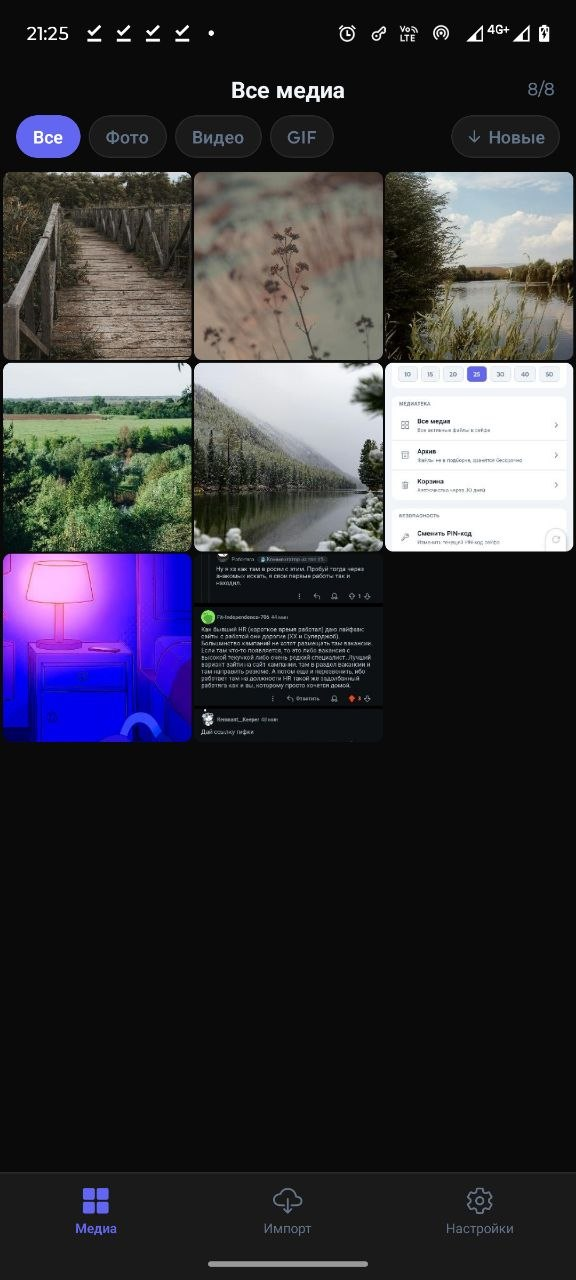
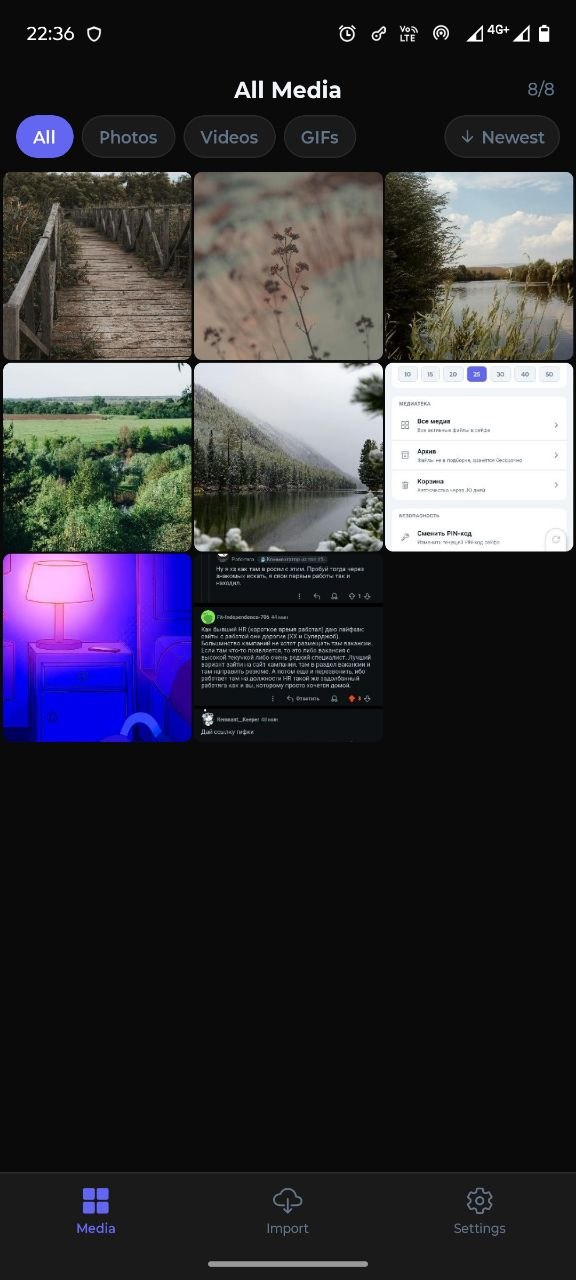
docs: работа с readme

diff --git a/README.md b/README.md
@@ -2,17 +2,17 @@
 
 A personal encrypted media vault for Android. Stores photos, videos and GIFs locally on-device — fully offline, protected by PIN, optionally by biometrics.
 
-> **Note:** This project was built quickly and for personal use. The code is functional but not production-grade, the architecture is straightforward. It does its job.
+> Built for personal use. The code is functional and the architecture is straightforward — it does its job well.
 
 <p align="center">
   <img src="screenshots/media.jpg" width="260" alt="All Media" />
-  &nbsp;
+  &nbsp;&nbsp;
   <img src="screenshots/import.jpg" width="260" alt="Import" />
-  &nbsp;
+  &nbsp;&nbsp;
   <img src="screenshots/settings.jpg" width="260" alt="Settings" />
 </p>
 <p align="center">
-  <sub>All Media &nbsp;&nbsp;&nbsp;&nbsp;&nbsp;&nbsp;&nbsp;&nbsp;&nbsp;&nbsp;&nbsp;&nbsp;&nbsp;&nbsp;&nbsp;&nbsp;&nbsp;&nbsp;&nbsp;&nbsp;&nbsp; Import &nbsp;&nbsp;&nbsp;&nbsp;&nbsp;&nbsp;&nbsp;&nbsp;&nbsp;&nbsp;&nbsp;&nbsp;&nbsp;&nbsp;&nbsp;&nbsp;&nbsp;&nbsp;&nbsp;&nbsp;&nbsp; Settings</sub>
+  <sub>All Media &nbsp;·&nbsp; Import &nbsp;·&nbsp; Settings</sub>
 </p>
 
 ## Features
@@ -20,7 +20,7 @@ A personal encrypted media vault for Android. Stores photos, videos and GIFs loc
 - AES-256-GCM encryption — every file encrypted individually before being written to disk
 - Keys stored in Android Keystore — never exposed to JS
 - PIN-code protected with brute-force counter
-- Optional biometric unlock (fingerprint / face) — hidden button, no visible hint, off by default (click the lower left corner)
+- Optional biometric unlock (fingerprint / face) — hidden button, no visible hint, off by default (tap the lower-left corner)
 - Safe Mode — a second independent vault opened with a different PIN
 - Daily randomizer tab — shows a random subset of your media each day (toggleable; shows all media when off)
 - Full media viewer with pinch-to-zoom, horizontal swipe between files, swipe-down to dismiss
@@ -30,10 +30,11 @@ A personal encrypted media vault for Android. Stores photos, videos and GIFs loc
 - Filter by type (photo / video / GIF) and sort in All Media
 - Import from gallery with encrypted thumbnail generation
 - Receive files via Android share sheet (ACTION_SEND / ACTION_SEND_MULTIPLE)
-- Export (temporary decrypted copy shared via system share)
+- Export — temporary decrypted copy shared via system share
 - Auto-lock after N minutes of inactivity
 - Shake-to-lock panic gesture (toggleable)
-- `FLAG_SECURE` — blocks screenshots and app switcher previews at OS level
+- `FLAG_SECURE` — blocks screenshots and app switcher previews at OS level (toggleable)
+- Russian / English UI — auto-detected from device locale (CIS → Russian, others → English), switchable in Settings
 - Light / Dark / System theme
 - Fully offline — zero network requests
 
@@ -54,6 +55,7 @@ A personal encrypted media vault for Android. Stores photos, videos and GIFs loc
 | Gallery access | `expo-media-library` |
 | Settings | `@react-native-async-storage/async-storage` |
 | Safe area | `react-native-safe-area-context` |
+| i18n | Custom (no external deps) — `Intl.DateTimeFormat` locale detection |
 
 ## Security model
 
@@ -61,7 +63,7 @@ A personal encrypted media vault for Android. Stores photos, videos and GIFs loc
 - Sub-keys derived per purpose (metadata store, file encryption) via PBKDF2
 - Safe Mode uses a completely separate master key and namespace (`vault_safe/`)
 - PIN is verified by attempting decryption — no plain PIN stored anywhere
-- `FLAG_SECURE` is set in `MainActivity.kt` — OS blocks screenshots at the window level
+- `FLAG_SECURE` is set in `MainActivity.kt` at startup; can be disabled per-user in Settings
 - Biometric button is intentionally invisible — its position is known only to the owner
 
 ## Build
@@ -80,12 +82,12 @@ cd android
 adb install -r app/build/outputs/apk/release/app-release.apk
 ```
 
-The release APK is signed with the debug keystore by default (`signingConfig signingConfigs.debug` in `build.gradle`). For distribution you'd swap in a proper keystore.
+The release APK is signed with the debug keystore by default (`signingConfig signingConfigs.debug` in `build.gradle`). For distribution swap in a proper keystore.
 
 ### Requirements
 
-- Android device / emulator with Android 10+ (API 29+)
-- `adb` available in PATH
+- Android 10+ (API 29+)
+- `adb` in PATH
 - JDK 17+
 - New Architecture enabled (`newArchEnabled=true`)
 
@@ -100,6 +102,7 @@ src/
   components/   TabBar, MediaThumbnail, ZoomableImage, PinPad, SelectionBar
   hooks/        useSelection
   context/      ThemeContext
+  i18n/         en.ts, ru.ts, index.ts — locale detection + runtime switching
   utils/        media helpers (formatDuration, formatFileSize, …)
   types/        shared TypeScript types
 android/        native Android project (Kotlin, Gradle)
@@ -107,10 +110,11 @@ android/        native Android project (Kotlin, Gradle)
 
 ## Android native additions
 
-Two things added to the default Expo template in `MainActivity.kt`:
+Three things added to the default Expo template:
 
-1. `FLAG_SECURE` set in `onCreate` — blocks screenshots
-2. `processShareIntent()` + `onNewIntent()` — receives files from the system share sheet, copies them to `cacheDir/pending_share/`, JS picks them up on next foreground
+1. **`FLAG_SECURE`** set in `MainActivity.kt` `onCreate` — blocks screenshots at the OS window level
+2. **Share intent handling** — `processShareIntent()` + `onNewIntent()` in `MainActivity.kt` receives files from the system share sheet, copies them to `cacheDir/pending_share/`, JS picks them up on next foreground
+3. **`SecureFlagModule.kt`** — native Kotlin module that lets JS toggle `FLAG_SECURE` at runtime (used by the screenshot-blocking toggle in Settings)
 
 ## License
 